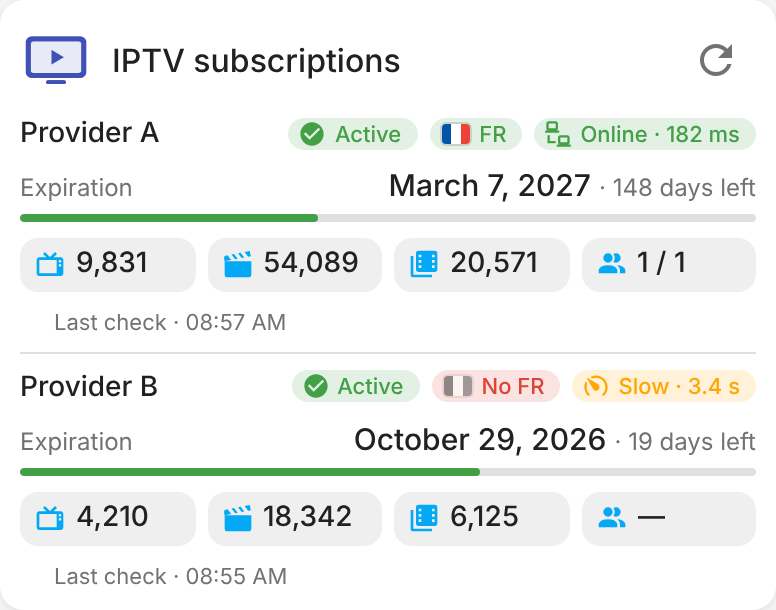
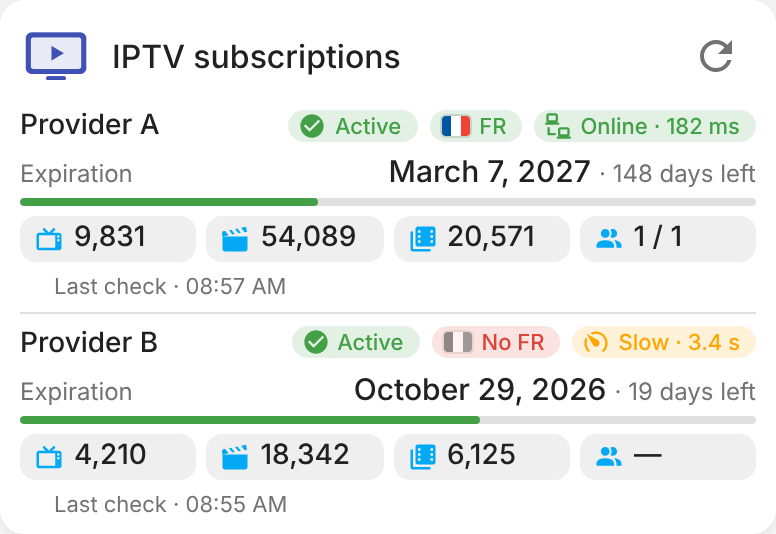
Card grid height follows content, tighter layout (3.9.0) (#19)
getGridOptions returns rows: 'auto', so the card no longer reserves empty
space below it in sections view (the previous fixed estimate was too tall
for the compact layout). Paddings and tiles tightened a bit more.

Claude-Session: https://claude.ai/code/session_01Nef7oocvL8tyqa2wDZRCex

diff --git a/custom_components/iptv/frontend/iptv-card.js b/custom_components/iptv/frontend/iptv-card.js
@@ -8,7 +8,7 @@
  *
  * https://github.com/juju35/ha-iptv
  */
-var IPTV_CARD_VERSION = '3.8.0';
+var IPTV_CARD_VERSION = '3.9.0';
 var IPTV_DOMAIN = 'iptv';
 var IPTV_LOGO_URL = '/' + IPTV_DOMAIN + '/logo.png?v=' + IPTV_CARD_VERSION;
 
@@ -152,13 +152,12 @@ class IptvCard extends HTMLElement {
   }
 
   getGridOptions() {
-    var n = Math.max(1, this._hass ? this._subs().length : 1);
-    return { columns: 6, min_columns: 4, rows: n > 1 ? 1 + 3 * n : 'auto' };
+    return { columns: 6, min_columns: 4, rows: 'auto' };
   }
 
   getCardSize() {
     var n = Math.max(1, this._hass ? this._subs().length : 1);
-    return n > 1 ? 1 + 3 * n : 3;
+    return n > 1 ? 1 + 2 * n : 3;
   }
 
   _t(key, vars) {
@@ -423,7 +422,7 @@ class IptvCard extends HTMLElement {
     this.shadowRoot.innerHTML = `
       <style>
         :host { --iptv-ok: var(--success-color, #43a047); --iptv-warn: var(--warning-color, #ffa600); --iptv-crit: var(--error-color, #db4437); }
-        ha-card { padding: 10px; display: flex; flex-direction: column; gap: 8px; }
+        ha-card { padding: 8px 10px; display: flex; flex-direction: column; gap: 6px; }
         .ok { --c: var(--iptv-ok); } .warning { --c: var(--iptv-warn); } .error { --c: var(--iptv-crit); } .idle { --c: var(--secondary-text-color); }
         .header { display: flex; align-items: center; gap: 10px; }
         .logo { width: 36px; height: 36px; flex: none; object-fit: contain; }
@@ -438,8 +437,8 @@ class IptvCard extends HTMLElement {
         .flag { width: 14px; height: 10px; border-radius: 2px; flex: none; box-shadow: 0 0 0 1px rgba(0,0,0,.12);
                 background: linear-gradient(90deg, #0055a4 0 33.3%, #fff 33.3% 66.6%, #ef4135 66.6%); }
         .flag.off { filter: grayscale(1); opacity: .6; }
-        .sect { display: flex; flex-direction: column; gap: 8px; }
-        .sect.multi + .sect.multi { border-top: 1px solid var(--divider-color, rgba(127,127,127,.25)); padding-top: 8px; }
+        .sect { display: flex; flex-direction: column; gap: 5px; }
+        .sect.multi + .sect.multi { border-top: 1px solid var(--divider-color, rgba(127,127,127,.25)); padding-top: 6px; }
         .sect-head { display: flex; align-items: center; justify-content: space-between; gap: 8px; }
         .sect-head .chips { margin-top: 0; flex: none; justify-content: flex-end; }
         .sect-name { font-size: 14px; font-weight: 500; min-width: 0; white-space: nowrap; overflow: hidden; text-overflow: ellipsis; }
@@ -451,14 +450,14 @@ class IptvCard extends HTMLElement {
         .lbl { color: var(--secondary-text-color); font-size: 11px; }
         .exp .lbl { font-size: 12px; }
         .val { font-weight:500; font-size: 15px; }
-        .bar { height:4px; border-radius:3px; background: var(--divider-color, rgba(127,127,127,.25)); margin-top:5px; overflow:hidden; }
+        .bar { height:4px; border-radius:3px; background: var(--divider-color, rgba(127,127,127,.25)); margin-top:4px; overflow:hidden; }
         .rem { font-weight:400; font-size:12px; color: var(--secondary-text-color); }
         .rem.warning, .rem.error { color: var(--c); }
         .fill { height:100%; border-radius:3px; background: var(--c, var(--iptv-ok)); transition: width .6s ease; }
-        .stats { display:grid; grid-template-columns:repeat(4, minmax(0, 1fr)); gap:6px; }
-        .stat { display:flex; align-items:center; gap:5px; padding:5px 7px; border-radius:9px; min-width: 0;
+        .stats { display:grid; grid-template-columns:repeat(4, minmax(0, 1fr)); gap:5px; }
+        .stat { display:flex; align-items:center; gap:5px; padding:3px 7px; border-radius:8px; min-width: 0;
                 background: var(--secondary-background-color, rgba(127,127,127,.08)); }
-        .stat ha-icon { color: var(--primary-color); --mdc-icon-size: 16px; flex: none; }
+        .stat ha-icon { color: var(--primary-color); --mdc-icon-size: 15px; flex: none; }
         .num { font-size: 14px; font-weight: 500; line-height: 1.2; overflow:hidden; text-overflow:ellipsis; white-space:nowrap; }
         .msg { color: var(--secondary-text-color); padding:8px 0; }
         .msg.err { color: var(--iptv-crit); }

diff --git a/custom_components/iptv/const.py b/custom_components/iptv/const.py
@@ -1,7 +1,7 @@
 """Constants for the IPTV integration."""
 
 DOMAIN = "iptv"
-VERSION = "3.8.0"
+VERSION = "3.9.0"
 
 CONF_SCAN_INTERVAL = "scan_interval"
 DEFAULT_SCAN_INTERVAL = 60  # minutes

diff --git a/CHANGELOG.md b/CHANGELOG.md
@@ -1,5 +1,13 @@
 # Changelog
 
+## 3.9.0
+
+### Fixes
+- The card no longer reserves empty space beneath it: its grid height follows the content (`rows: auto`) instead of a fixed estimate that was too large for the compact layout.
+
+### Changes
+- Slightly tighter layout (smaller paddings and tiles), for a shorter card.
+
 ## 3.8.0
 
 ### Changes
